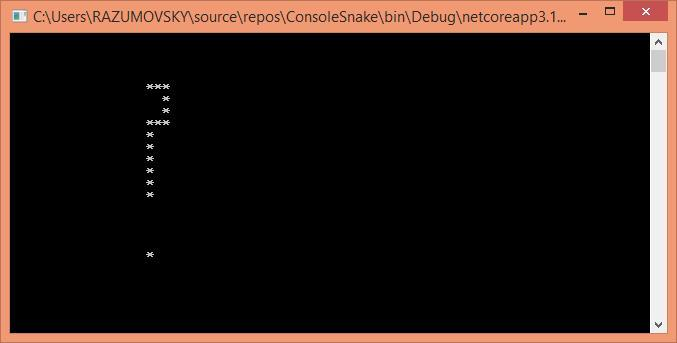
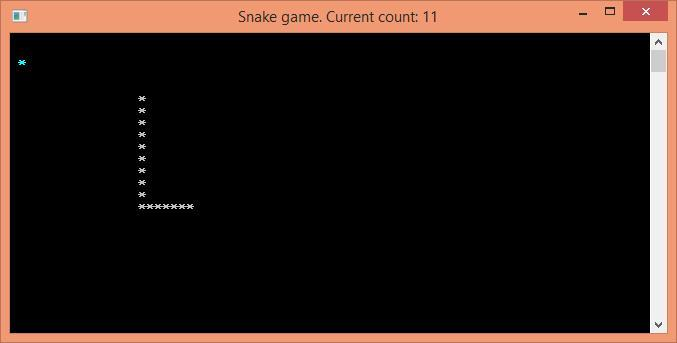
food in different color, stats are shown in console title

diff --git a/GameEngine.cs b/GameEngine.cs
@@ -7,12 +7,14 @@ namespace ConsoleSnake
     {
         private Snake Snake { get; } = new Snake();
         private Food Food { get; } = new Food();
+        private int PlayerCount { get; set; }
 
         public void GameProcess()
         {
             Console.WriteLine("Press any key to start");
-            Snake.DisplaySnake();
+            UpdateCount();
             Food.DisplayFood();
+            Snake.DisplaySnake();
 
             while (true)
             {
@@ -47,11 +49,13 @@ namespace ConsoleSnake
             {
                 Console.Clear();
                 Snake.MoveSnakeX(value);
-                Snake.DisplaySnake();
                 Food.DisplayFood();
+                Snake.DisplaySnake();
 
                 if (Snake.X == Food.X && Snake.Y == Food.Y)
                 {
+                    PlayerCount++;
+                    UpdateCount();
                     Food.ChangeFoodPosition();
                     Snake.AddTailX(value);
                 }
@@ -66,17 +70,24 @@ namespace ConsoleSnake
             {
                 Console.Clear();
                 Snake.MoveSnakeY(value);
-                Snake.DisplaySnake();
                 Food.DisplayFood();
+                Snake.DisplaySnake();
 
                 if (Snake.X == Food.X && Snake.Y == Food.Y)
                 {
+                    PlayerCount++;
+                    UpdateCount();
                     Food.ChangeFoodPosition();
                     Snake.AddTailY(value);
                 }
 
                 Thread.Sleep(150);
             }
+        }
+
+        private void UpdateCount()
+        {
+            Console.Title = $"Snake game. Current count: {PlayerCount}";
         }
     }
 }

diff --git a/Food.cs b/Food.cs
@@ -8,7 +8,7 @@ namespace ConsoleSnake
         private Point Position { get; } = new Point();
 
         // random instance
-        private Random Random { get; }  = new Random();
+        private Random Random { get; } = new Random();
 
         // get coordinates
         public int X => Position.X;
@@ -38,7 +38,8 @@ namespace ConsoleSnake
         public void DisplayFood()
         {
             Console.SetCursorPosition(Position.X, Position.Y);
-            Console.Write(this);
+            Console.ForegroundColor = ConsoleColor.Cyan; 
+            Console.Write(ToString(), Console.ForegroundColor);
         }
 
         public override string ToString()

diff --git a/Point.cs b/Point.cs
@@ -26,7 +26,8 @@ namespace ConsoleSnake
         public void PrintPoint()
         {
             Console.SetCursorPosition(X, Y);
-            Console.Write(this);
+            Console.ForegroundColor = ConsoleColor.Gray;
+            Console.Write(ToString(), Console.ForegroundColor);
         }
 
         public override string ToString()

diff --git a/README.md b/README.md
@@ -5,7 +5,7 @@ Snake game console implementation using C#
 ### To implement in addition
 
 - Score count
-- Exceptiions where user goes over field, when snake touches itself
+- Exceptiions when user goes over field, when snake touches itself
 - Fix and border the table
 - Make food to be different color
 
